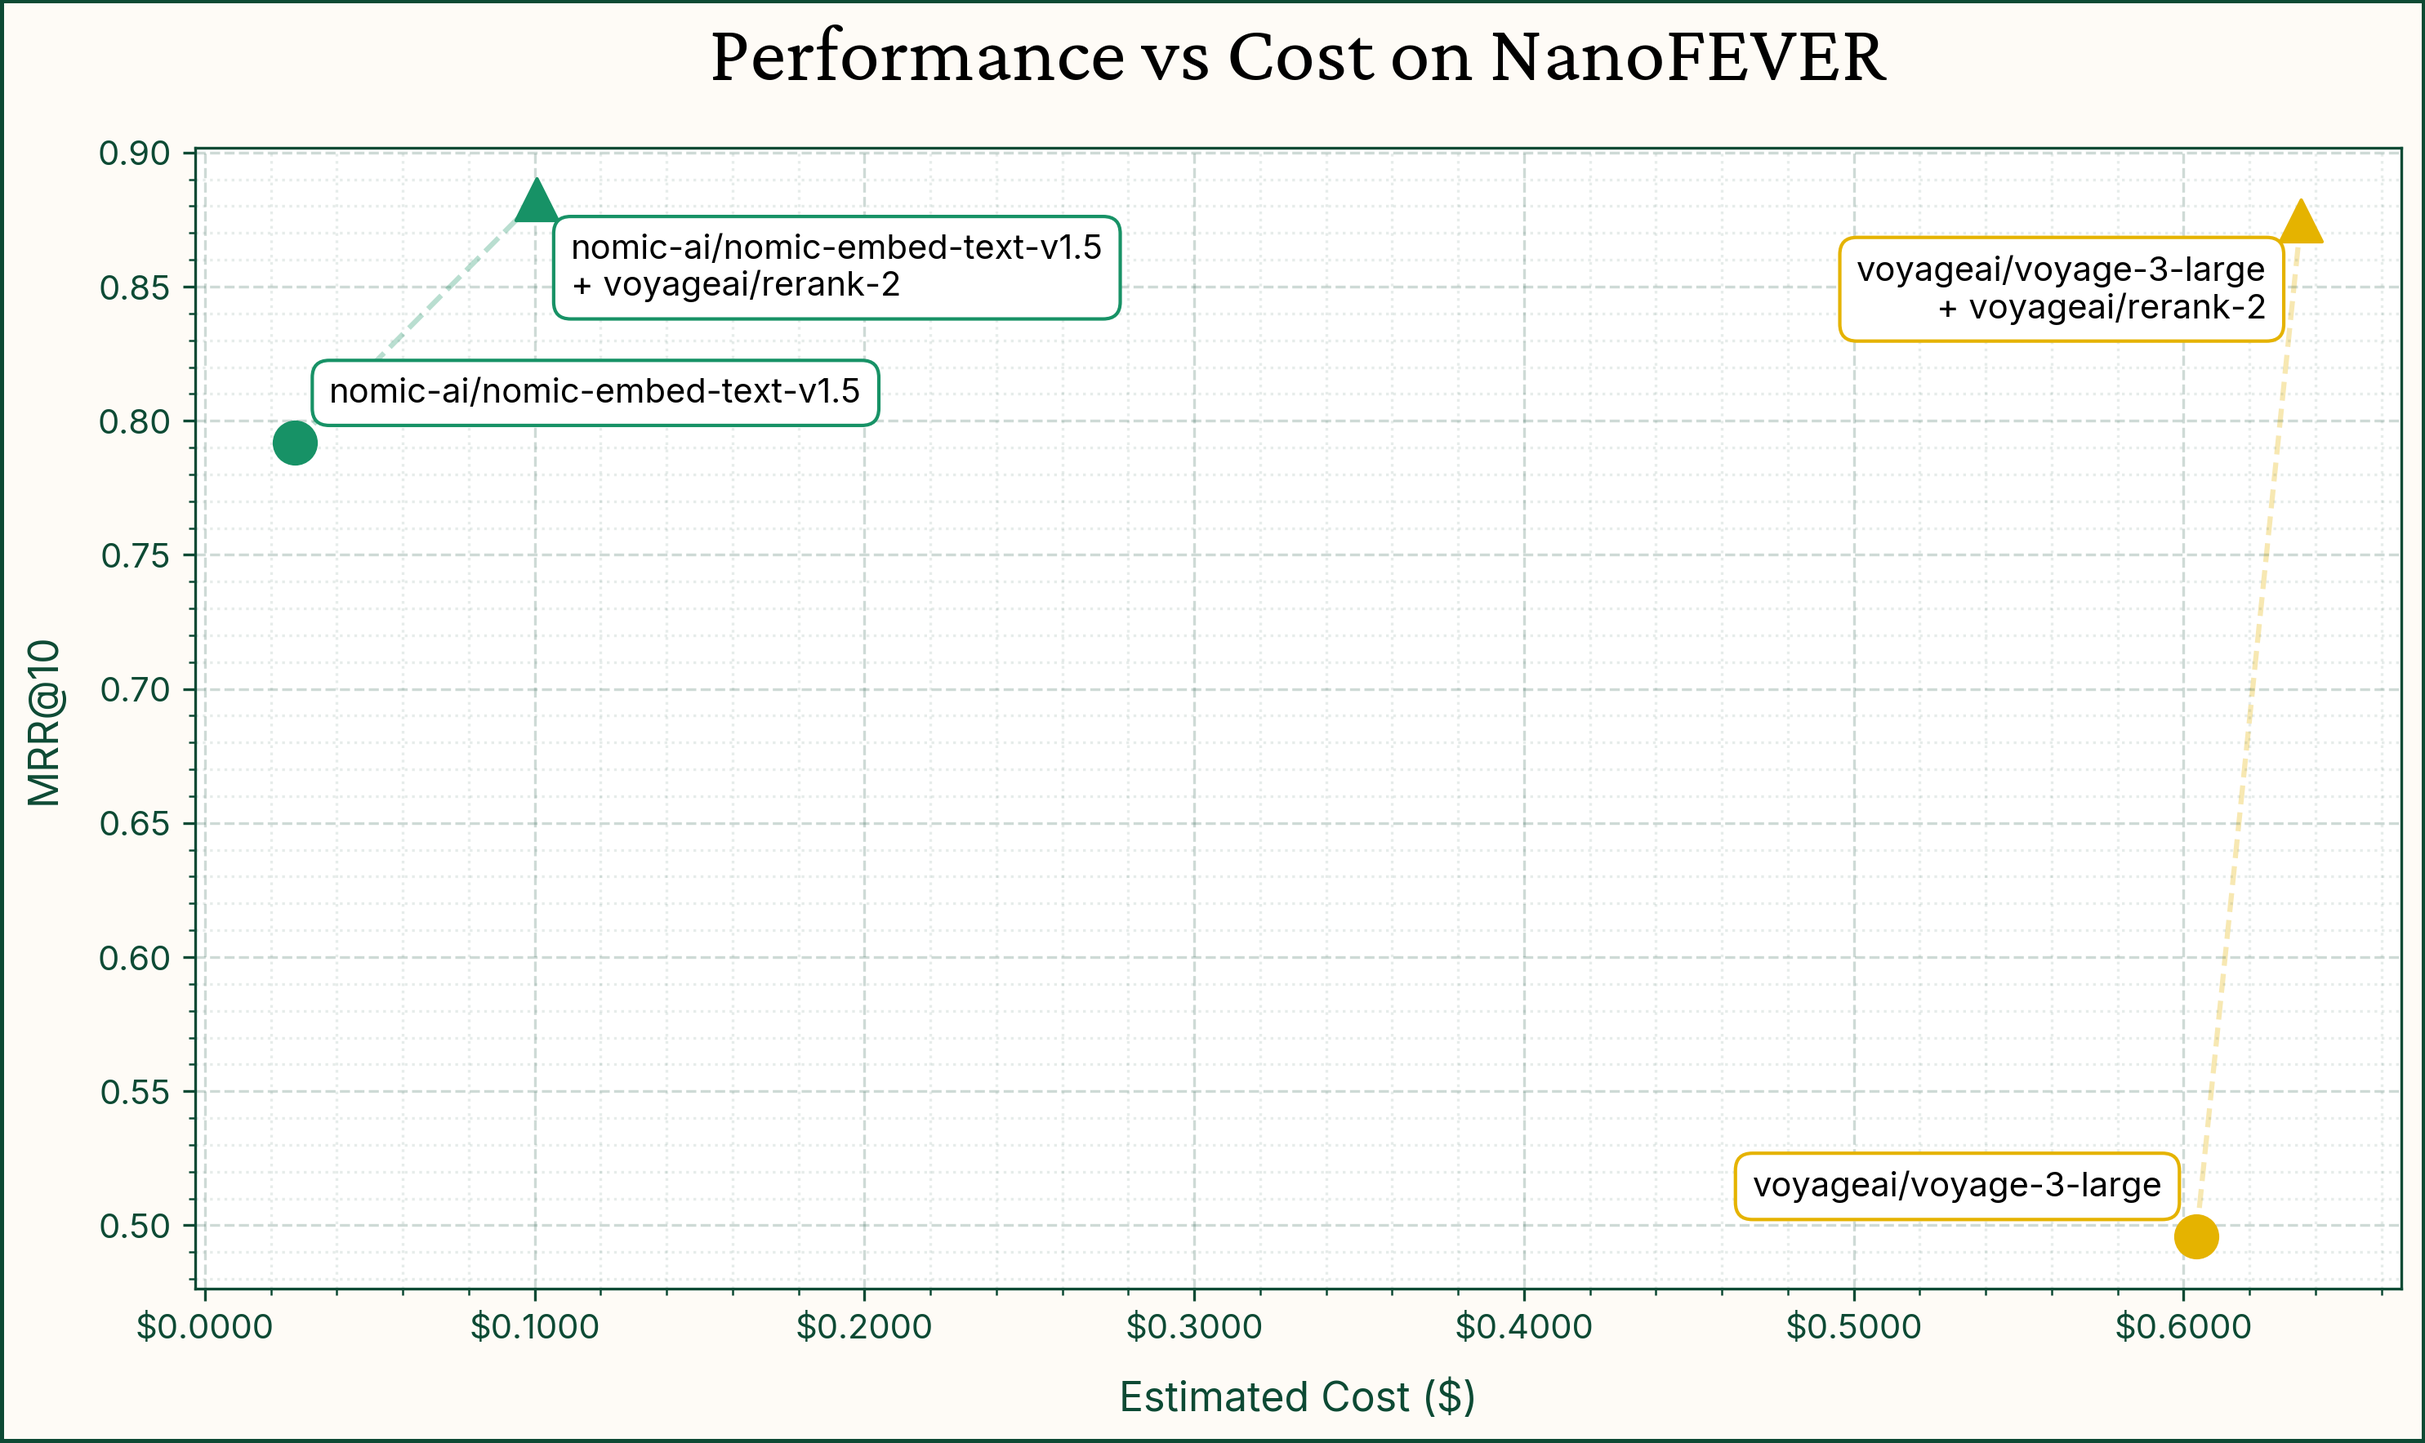
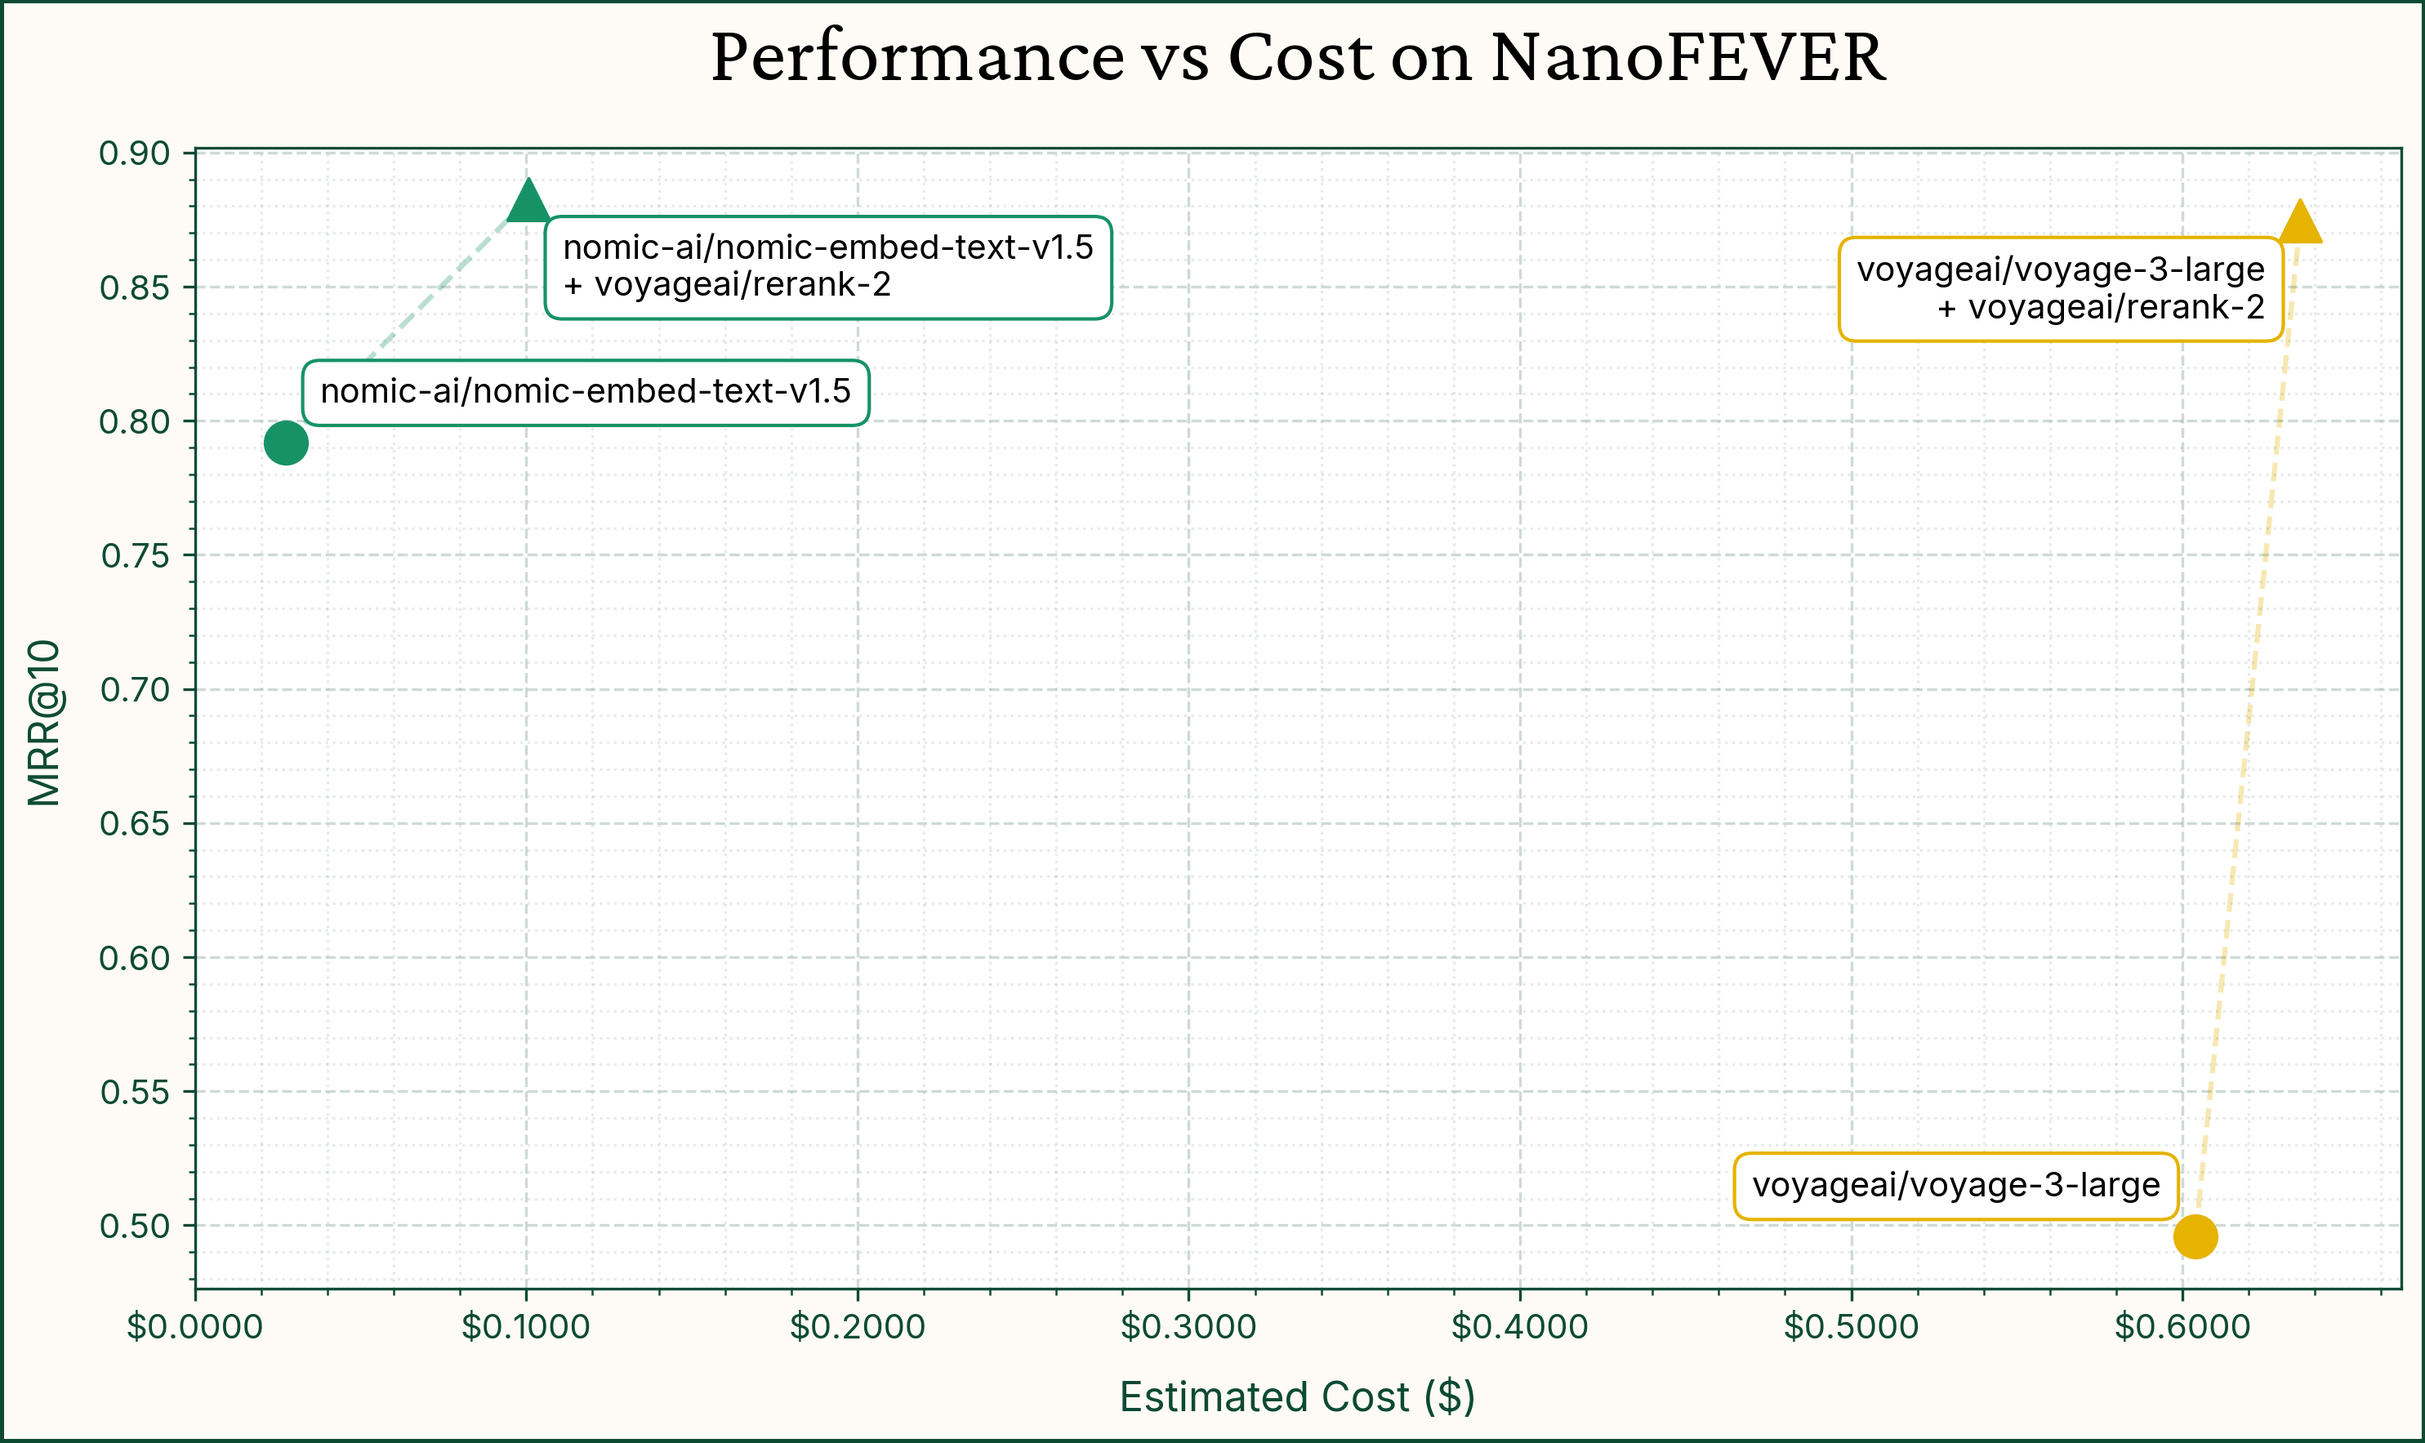
review cost calc

diff --git a/embeddings/tokenization_analysis.py b/embeddings/tokenization_analysis.py
@@ -5,58 +5,39 @@ from datasets import load_dataset
 from tqdm import tqdm
 import logging
 from transformers import AutoTokenizer
-from query_embedding_and_metrics import DATASET_PATHS, EmbeddingEvaluator
+from query_embedding_and_metrics import EmbeddingEvaluator
 
 logging.basicConfig(level=logging.INFO, format='%(asctime)s - %(levelname)s - %(message)s')
 logger = logging.getLogger(__name__)
 
 def analyze_retrieved_documents(model1_name, model2_name, dataset_name, initial_k=100, num_queries=50):
     """Analyze differences in retrieved documents between two models."""
-    
-    # Initialize evaluators for both models
     evaluator1 = EmbeddingEvaluator(model1_name, dataset_name, k=10, use_reranker=False, initial_k=initial_k)
     evaluator2 = EmbeddingEvaluator(model2_name, dataset_name, k=10, use_reranker=False, initial_k=initial_k)
-    
-    # Use the same rerank tokenizer for consistent token counting
     tokenizer = AutoTokenizer.from_pretrained("voyageai/rerank-2")
-    
-    # Get a subset of queries to analyze
     query_ids = list(evaluator1.queries.keys())[:num_queries]
-    
     stats = {
         "model1": {"name": model1_name, "total_tokens": 0, "doc_lengths": []},
         "model2": {"name": model2_name, "total_tokens": 0, "doc_lengths": []},
         "overlap": [],
     }
-    
     for query_id in tqdm(query_ids, desc="Analyzing queries"):
         query_text = evaluator1.queries[query_id]
         query_tokens = len(tokenizer.encode(query_text, add_special_tokens=True))
-        
-        # Get embeddings and retrieve documents for both models
         for evaluator, model_key in [(evaluator1, "model1"), (evaluator2, "model2")]:
             query_embedding = evaluator.embed_queries([query_text], [query_id])[query_id]
-            
-            # Calculate similarities and get top documents
             similarities = []
             for doc_id, doc_embedding in evaluator.corpus_embeddings.items():
                 query_norm = np.linalg.norm(query_embedding)
                 query_embedding_norm = query_embedding / query_norm if query_norm > 0 else query_embedding
-                
                 doc_norm = np.linalg.norm(doc_embedding)
                 doc_embedding_norm = doc_embedding / doc_norm if doc_norm > 0 else doc_embedding
-                
                 similarity = np.dot(query_embedding_norm, doc_embedding_norm)
                 similarities.append((similarity, doc_id))
-            
             similarities.sort(reverse=True)
             top_docs = [(score, doc_id) for score, doc_id in similarities[:initial_k]]
-            
-            # Calculate token counts for retrieved documents
             docs_to_analyze = [evaluator.corpus[doc_id] for _, doc_id in top_docs]
             doc_token_counts = [len(tokenizer.encode(doc, add_special_tokens=True)) for doc in docs_to_analyze]
-            
-            # Update stats
             stats[model_key]["doc_lengths"].extend(doc_token_counts)
             total_tokens = sum(doc_token_counts) + (query_tokens * len(docs_to_analyze))
             stats[model_key]["total_tokens"] += total_tokens
@@ -68,8 +49,6 @@ def analyze_retrieved_documents(model1_name, model2_name, dataset_name, initial_
                 model2_docs = set(doc_id for _, doc_id in top_docs)
                 overlap = len(model1_docs.intersection(model2_docs))
                 stats["overlap"].append(overlap / initial_k)
-    
-    # Calculate aggregate statistics and convert numpy types to native Python types
     for model_key in ["model1", "model2"]:
         doc_lengths = stats[model_key]["doc_lengths"]
         stats[model_key].update({
@@ -80,16 +59,11 @@ def analyze_retrieved_documents(model1_name, model2_name, dataset_name, initial_
             "std_doc_length": float(np.std(doc_lengths)),
             "total_tokens": int(stats[model_key]["total_tokens"]),
         })
-    
-    # Calculate average overlap
     stats["average_overlap"] = float(np.mean(stats["overlap"]))
     stats["overlap"] = [float(x) for x in stats["overlap"]]
-    
-
     del stats["model1"]["doc_lengths"]
     del stats["model2"]["doc_lengths"]
     del stats["overlap"]
-    
     return stats
 
 def main():
@@ -110,8 +84,6 @@ def main():
         initial_k=args.initial_k,
         num_queries=args.num_queries
     )
-    
-    # Print summary statistics
     for model_key in ["model1", "model2"]:
         model_name = stats[model_key]["name"]
         logger.info(f"\nStatistics for {model_name}:")
@@ -123,8 +95,6 @@ def main():
         logger.info(f"Standard deviation: {stats[model_key]['std_doc_length']:.2f} tokens")
     
     logger.info(f"\nAverage document overlap between models: {stats['average_overlap']*100:.2f}%")
-    
-    # Save detailed statistics
     with open(args.output, 'w') as f:
         json.dump(stats, f, indent=2)
     logger.info(f"\nDetailed statistics saved to {args.output}")

diff --git a/embeddings/plot.py b/embeddings/plot.py
@@ -40,25 +40,19 @@ plt.rcParams.update({
 with open('performance_stats.json', 'r') as f:
     perf_data = json.load(f)['data']
 dataset_data = [d for d in perf_data if d['dataset'] == args.dataset]
-
 latency_stats = {}
 reranking_stats = {}
-
-# Load reranking stats
 for filename in os.listdir('reranking_stats'):
     if args.dataset in filename:
         with open(os.path.join('reranking_stats', filename), 'r') as f:
             data = json.load(f)
             model_name = data['model'].replace('nomic-ai/', '').replace('voyageai/', '')
-            # Store the actual cost data for reranking
             reranking_stats[model_name] = {
                 'total_tokens_reranked': data['metrics']['total_tokens_reranked'],
-                'total_reranking_requests': data['metrics']['total_reranking_requests'],
-                'queries_evaluated': data['metrics']['queries_evaluated']
             }
 
-#######################################################
-# Estimate cost of hosting Voyage using e5 mistral 7b
+########################################################################
+# Estimate compute cost of corpus embedding Voyage using e5 mistral 7b
 model_to_latency_file = {
     'nomic-embed-text-v1.5': f'nomic-ai-nomic-embed-text-v1.5_{args.dataset}_b1024_s8192_latency_stats.json',
     'voyage-3-large': f'intfloat-e5-mistral-7b-instruct_{args.dataset}_b1024_s8192_latency_stats.json'  # Use intfloat for voyage
@@ -68,34 +62,22 @@ for model_name, latency_file in model_to_latency_file.items():
     if os.path.exists(file_path):
         with open(file_path, 'r') as f:
             data = json.load(f)
-            # Store tokens per second and total tokens from latency stats
             latency_stats[model_name] = {
                 'tokens_per_second': data['tokens_per_second'],
-                'total_tokens': data['total_tokens']
+                'total_tokens': data['total_tokens'],
+                'total_duration_seconds': data['total_duration_seconds']
             }
 
 plot_data = []
 for entry in dataset_data:
     model_name = entry['model'].replace('nomic-ai/', '').replace('voyageai/', '')
     if model_name in latency_stats:
-        # Get tokens per second and total tokens from latency stats
-        tokens_per_second = latency_stats[model_name]['tokens_per_second']
-        total_tokens = latency_stats[model_name]['total_tokens']
-        
-        # Calculate time to process all tokens
-        processing_time = total_tokens / tokens_per_second
-        # Calculate embedding cost
+        processing_time = latency_stats[model_name]['total_duration_seconds']
         embedding_cost = processing_time * EC2_COST_PER_SECOND
-        
-        # Total cost starts with embedding cost
         total_cost = embedding_cost
-        
-        # Add reranking cost if applicable
         if entry['Reranking']:
-            # Calculate actual reranking cost
             reranking_cost = reranking_stats[model_name]['total_tokens_reranked'] / 1_000_000 * VOYAGE_RERANK_COST_PER_MILLION_TOKENS
             total_cost += reranking_cost
-        
         plot_data.append({
             'model': model_name,
             'MRR@10': entry['MRR@10'],
@@ -113,6 +95,7 @@ ax.xaxis.set_major_formatter(FuncFormatter(format_scientific))
 ax.grid(True, which='major', linestyle='--', alpha=0.2)
 ax.grid(True, which='minor', linestyle=':', alpha=0.1)
 ax.minorticks_on()
+
 colors = {'nomic-embed-text-v1.5': COLORS[3], 'voyage-3-large': COLORS[1]}
 markers = {'Without Reranking': 'o', 'With Reranking': '^'}
 model_points = {}
@@ -189,6 +172,10 @@ for entry in plot_data:
         annotation_clip=True,
         zorder=3
     )
+
+# Set left x-limit to 0 while preserving right limit
+_, x_max = plt.xlim()
+plt.xlim(0, x_max)
 
 plt.xlabel('Estimated Cost ($)', fontsize=12, labelpad=10)
 plt.ylabel('MRR@10', fontsize=12, labelpad=10)

diff --git a/embeddings/query_embedding_and_metrics.py b/embeddings/query_embedding_and_metrics.py
@@ -42,7 +42,6 @@ class EmbeddingEvaluator:
         
         self.total_reranking_cost = 0.0
         self.total_tokens_reranked = 0
-        self.total_reranking_requests = 0
         self.rerank_tokenizer = AutoTokenizer.from_pretrained("voyageai/rerank-2")
         
         self.use_voyage = "voyage" in model_name.lower()
@@ -205,9 +204,7 @@ class EmbeddingEvaluator:
                 top_k=self.k
             )
             
-            # Update cost tracking
             self.total_tokens_reranked += total_tokens
-            self.total_reranking_requests += 1
             self.total_reranking_cost += (total_tokens / 1_000_000) * VOYAGE_RERANK_COST_PER_MILLION_TOKENS
             
             # Extract doc_ids in order of relevance scores
@@ -233,7 +230,6 @@ class EmbeddingEvaluator:
             logger.error("Failed to obtain query embeddings")
             return {
                 f"MRR@{self.k}": 0,
-                "queries_evaluated": 0
             }
         mrr_sum = 0
         for query_id in tqdm(query_embeddings):
@@ -242,7 +238,6 @@ class EmbeddingEvaluator:
         query_count = len(query_embeddings)
         metrics = {
             f"MRR@{self.k}": mrr_sum / query_count if query_count > 0 else 0,
-            "queries_evaluated": query_count
         }
         
         # Add reranking cost metrics if reranker was used
@@ -250,8 +245,6 @@ class EmbeddingEvaluator:
             metrics.update({
                 "total_reranking_cost": self.total_reranking_cost,
                 "total_tokens_reranked": self.total_tokens_reranked,
-                "total_reranking_requests": self.total_reranking_requests,
-                "average_cost_per_query": self.total_reranking_cost / query_count if query_count > 0 else 0
             })
         
         return metrics

diff --git a/embeddings/dataset_metadata.py b/embeddings/dataset_metadata.py
@@ -26,37 +26,26 @@ def analyze_dataset_truncation(dataset_name, model_name, max_seq_length):
     """Analyze how many documents would be truncated in the dataset."""
     if dataset_name not in DATASET_PATHS:
         raise ValueError(f"Unknown dataset: {dataset_name}. Available: {list(DATASET_PATHS.keys())}")
-    
-    # Load dataset
     dataset_path = DATASET_PATHS[dataset_name]
     corpus = load_dataset(dataset_path, "corpus", split="train")
-    
-    # Process corpus the same way as benchmark_corpus_embedding.py
     processed_corpus = {
         str(sample["_id"]): sample["text"] 
         for sample in corpus 
         if len(sample["text"].strip()) > 0
     }
-    
-    # Initialize tokenizer with provided model
     tokenizer = AutoTokenizer.from_pretrained(model_name)
-    
     total_docs = 0
     truncated_docs = 0
     total_tokens = 0
     max_tokens_seen = 0
     max_tokens_doc_id = None
     token_lengths = []
-    
-    # Check each document
     for doc_id, text in processed_corpus.items():
         total_docs += 1
-        # Just encode once and use the token count
         tokens = tokenizer.encode(text, add_special_tokens=True)
         token_count = len(tokens)
         total_tokens += token_count
         token_lengths.append(token_count)
-        
         if token_count > max_tokens_seen:
             max_tokens_seen = token_count
             max_tokens_doc_id = doc_id

diff --git a/embeddings/corpus_embedding.py b/embeddings/corpus_embedding.py
@@ -1,5 +1,3 @@
-# Rules for LLMs editing this file: prioritize being minimal and do not add fake/mock data/results
-
 from argparse import ArgumentParser
 import requests
 import time
@@ -24,8 +22,6 @@ class EmbeddingsBenchmark:
         model_name_safe = model_name.replace("/", "-")
         self.cache_file = f"{self.cache_dir}/{model_name_safe}_{dataset_name}_s{max_seq_length}_embeddings"
         os.makedirs(self.cache_dir, exist_ok=True)
-        
-        # Initialize Voyage API client if using a Voyage model
         self.use_voyage = "voyage" in model_name.lower()
         if self.use_voyage:
             voyage_api_key = os.environ.get("VOYAGE_API_KEY", None)
@@ -37,8 +33,6 @@ class EmbeddingsBenchmark:
     def batch_embed(self, texts):
         """Embed a batch of texts and return embeddings with latency"""
         start_time = time.time()
-        
-        # Count tokens without padding for accurate token counts
         token_counts = [
             len(self.tokenizer.encode(text, add_special_tokens=True, truncation=True, max_length=self.max_seq_length))
             for text in texts
